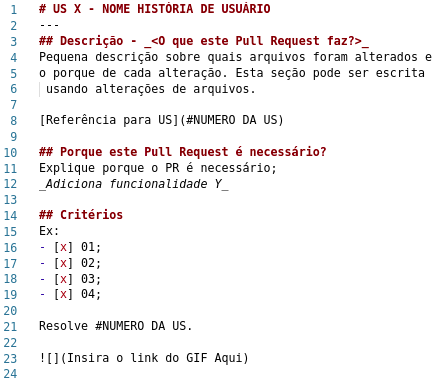
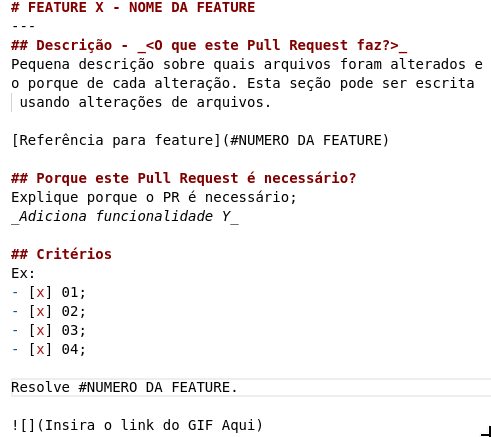
Corrigindo us para feature

Changed region(s): [[0.0, 0.0577, 1.0, 1.0], [0.0, 0.0, 0.6247, 0.0577], [0.9817, 0.9816, 1.0, 1.0]]

diff --git a/polices/ISSUE_TEMPLATE.md b/polices/ISSUE_TEMPLATE.md
@@ -1,10 +1,10 @@
-# US X - NOME HISTÓRIA DE USUÁRIO
+# FEATURE X - NOME DA FEATURE
 ---
 ## Descrição:
-Pequena e útil descrção a respeito da US.
+Pequena e útil descrção a respeito da feature.
 
 ## Tarefas
-Tarefas pequenas que levarão a conclusão da US
+Tarefas pequenas que levarão a conclusão da feature
 - [ ] Tarefa 01;
 - [ ] Tarefa 02;
 - [ ] Tarefa 03;
@@ -13,5 +13,5 @@ Tarefas pequenas que levarão a conclusão da US
 ### Observações
 - [ ] Empecilho;
 - [ ] Atraso;
-- Qualquer observação importante a respeito da US, ou das tarefas;
+- Qualquer observação importante a respeito da feature, ou das tarefas;
 

diff --git a/polices/PULL_REQUEST.md b/polices/PULL_REQUEST.md
@@ -1,11 +1,11 @@
-# US X - NOME HISTÓRIA DE USUÁRIO
+# FEATURE X - NOME DA FEATURE
 ---
 ## Descrição - _<O que este Pull Request faz?>_
 Pequena descrição sobre quais arquivos foram alterados e 
 o porque de cada alteração. Esta seção pode ser escrita
  usando alterações de arquivos.
 
-[Referência para US](#NUMERO DA US)
+[Referência para feature](#NUMERO DA FEATURE)
 
 ## Porque este Pull Request é necessário?
 Explique porque o PR é necessário;
@@ -18,7 +18,7 @@ Ex:
 - [x] 03;
 - [x] 04;
 
-Resolve #NUMERO DA US.
+Resolve #NUMERO DA FEATURE.
 
 ![](Insira o link do GIF Aqui) 
 
